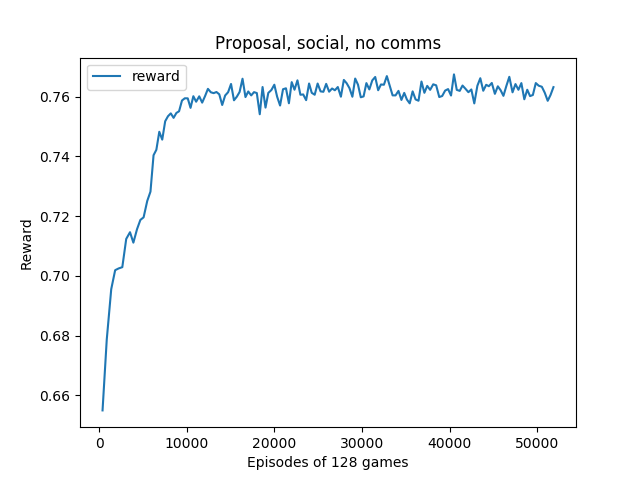
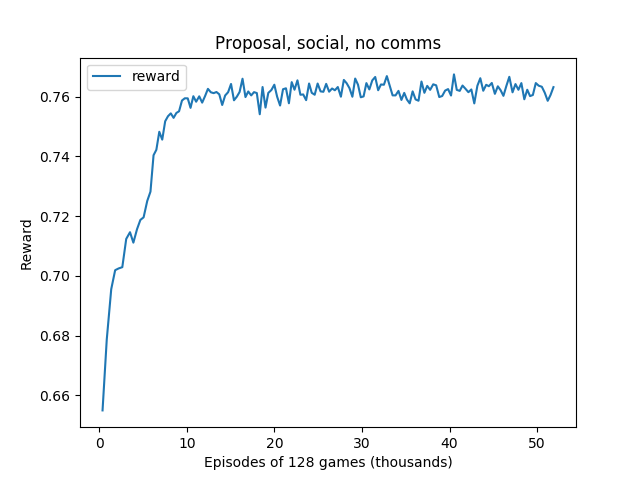
thousands

Changed region(s): [[0.25, 0.9062, 0.75, 1.0], [0.8125, 0.9062, 0.875, 0.9375]]

diff --git a/plot_graphs.py b/plot_graphs.py
@@ -4,6 +4,7 @@ Given a logfile, plot a graph
 import matplotlib.pyplot as plt
 import json
 import argparse
+import numpy as np
 
 
 def plot_reward(logfile, min_y, max_y, title, max_x):
@@ -35,10 +36,10 @@ def plot_reward(logfile, min_y, max_y, title, max_x):
         min_y = 0
     if max_y is not None:
         plt.ylim([min_y, max_y])
-    plt.plot(epoch, reward, label='reward')
+    plt.plot(np.array(epoch) / 1000, reward, label='reward')
     if title is not None:
         plt.title(title)
-    plt.xlabel('Episodes of 128 games')
+    plt.xlabel('Episodes of 128 games (thousands)')
     plt.ylabel('Reward')
     plt.legend()
     plt.savefig('/tmp/out-reward.png')
